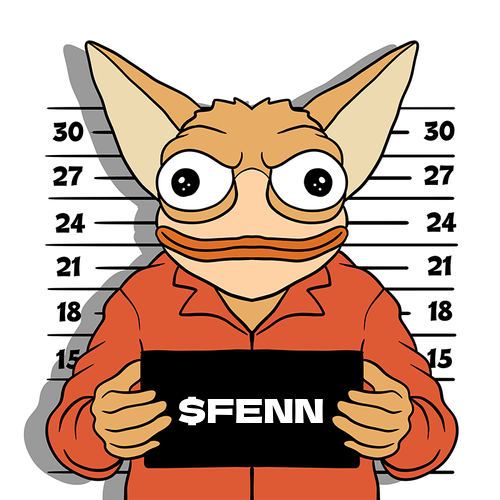
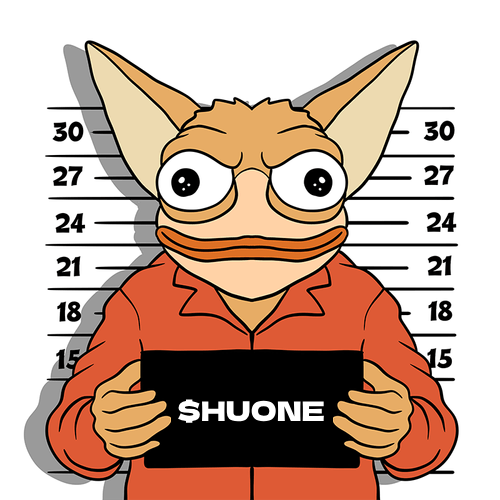
1

Changed region(s): [[0.36, 0.78, 0.66, 0.87]]

diff --git a/index.html b/index.html
@@ -2,9 +2,9 @@
 <html data-wf-page="6694e6c6ffe7ec007a5fe0f6" data-wf-site="6694e6c6ffe7ec007a5fe0e5">
 <head>
   <meta charset="utf-8">
-  <title>FENN CTO</title>
+  <title>DON CHIHUONE</title>
   <meta content="width=device-width, initial-scale=1" name="viewport">
-  <meta content="FENN CTO" name="$FENN">
+  <meta content="DON CHIHUONE" name="$HUONE">
   <link href="css/normalize.css" rel="stylesheet" type="text/css">
   <link href="css/fenn.css" rel="stylesheet" type="text/css">
   <link href="css/fennsol.css" rel="stylesheet" type="text/css">
@@ -20,7 +20,7 @@
   <source src="music.mp3" type="audio/mpeg">
 </audio>
   <div class="section_welcome">
-    <div data-w-id="d09afd53-cc98-39b9-e454-fb562317df2b" style="opacity:0" class="title">$FENN</div>
+    <div data-w-id="d09afd53-cc98-39b9-e454-fb562317df2b" style="opacity:0" class="title">$HUONE</div>
     <a data-w-id="685761e2-9dc5-6162-ecdc-14ebf643b7cd" style="opacity:0" href="#" class="continue w-button">CONTINUE</a>
   </div>
   <div class="w-embed">
@@ -32,21 +32,21 @@ html, body {
   </div>
   <div class="header">
     <div class="menu">
-      <a href="https://pump.fun/PqGJ6zMMSaezBVDJBWMSyXyourYvcvWE8EvNZRKpump" class="button_buy w-button">BUY $FENN</a>
+      <a href="https://pump.fun/nnaEXrLP9XzvvQTXyKjkn2gZAhgRavXHJLKNevepump" class="button_buy w-button">BUY $HUONE</a>
     </div>
     <div class="menu_right">
       <div class="menu_buttons">
         <a href="#story" class="menu_link w-button">STORY</a>
         <a href="#tokenomics" class="menu_link w-button">TOKENOMICS</a>
         <a href="#join" class="menu_link w-button">JOIN</a>
-        <a href="https://jup.ag/swap/SOL-PqGJ6zMMSaezBVDJBWMSyXyourYvcvWE8EvNZRKpump" class="menu_link w-button">JUPITER</a>
+        <a href="https://jup.ag/swap/SOL-nnaEXrLP9XzvvQTXyKjkn2gZAhgRavXHJLKNevepump" class="menu_link w-button">JUPITER</a>
       </div>
-      <a href="https://t.me/fenncoin" class="tg w-button"></a>
-      <a href="https://x.com/fenncoin" class="x w-button"></a>
+      <a href="https://t.me/huonecoin" class="tg w-button"></a>
+      <a href="https://x.com/huonecoin" class="x w-button"></a>
     </div>
   </div>
   <div class="wrapper">
-    <div class="section_hero"> <img src="./images/cloud_hero_blue.svg" loading="lazy" alt="" class="clouds_hero_blue"><img src="./images/clouds_hero_white.svg" loading="lazy" style="-webkit-transform:translate3d(-89vw, 0, 0) scale3d(1, 1, 1) rotateX(0) rotateY(0) rotateZ(0) skew(0, 0);-moz-transform:translate3d(-89vw, 0, 0) scale3d(1, 1, 1) rotateX(0) rotateY(0) rotateZ(0) skew(0, 0);-ms-transform:translate3d(-89vw, 0, 0) scale3d(1, 1, 1) rotateX(0) rotateY(0) rotateZ(0) skew(0, 0);transform:translate3d(-89vw, 0, 0) scale3d(1, 1, 1) rotateX(0) rotateY(0) rotateZ(0) skew(0, 0)" data-w-id="59f95f3e-db18-afbe-428f-cf73599fe10e" alt="" class="clouds_hero_white">   <div style="" class="logo-title">FENN CTO</div>                   <img src="./images/palm.svg" loading="lazy" style="-webkit-transform:translate3d(-33vw, 0, 0) scale3d(1, 1, 1) rotateX(0) rotateY(0) rotateZ(0) skew(0, 0);-moz-transform:translate3d(-33vw, 0, 0) scale3d(1, 1, 1) rotateX(0) rotateY(0) rotateZ(0) skew(0, 0);-ms-transform:translate3d(-33vw, 0, 0) scale3d(1, 1, 1) rotateX(0) rotateY(0) rotateZ(0) skew(0, 0);transform:translate3d(-33vw, 0, 0) scale3d(1, 1, 1) rotateX(0) rotateY(0) rotateZ(0) skew(0, 0)" data-w-id="b00e3dc6-1b1d-6a6d-198b-9bd509bbb92a" alt="" class="palm_hero">
+    <div class="section_hero"> <img src="./images/cloud_hero_blue.svg" loading="lazy" alt="" class="clouds_hero_blue"><img src="./images/clouds_hero_white.svg" loading="lazy" style="-webkit-transform:translate3d(-89vw, 0, 0) scale3d(1, 1, 1) rotateX(0) rotateY(0) rotateZ(0) skew(0, 0);-moz-transform:translate3d(-89vw, 0, 0) scale3d(1, 1, 1) rotateX(0) rotateY(0) rotateZ(0) skew(0, 0);-ms-transform:translate3d(-89vw, 0, 0) scale3d(1, 1, 1) rotateX(0) rotateY(0) rotateZ(0) skew(0, 0);transform:translate3d(-89vw, 0, 0) scale3d(1, 1, 1) rotateX(0) rotateY(0) rotateZ(0) skew(0, 0)" data-w-id="59f95f3e-db18-afbe-428f-cf73599fe10e" alt="" class="clouds_hero_white">   <div style="" class="logo-title">DON CHIHUONE</div>                   <img src="./images/palm.svg" loading="lazy" style="-webkit-transform:translate3d(-33vw, 0, 0) scale3d(1, 1, 1) rotateX(0) rotateY(0) rotateZ(0) skew(0, 0);-moz-transform:translate3d(-33vw, 0, 0) scale3d(1, 1, 1) rotateX(0) rotateY(0) rotateZ(0) skew(0, 0);-ms-transform:translate3d(-33vw, 0, 0) scale3d(1, 1, 1) rotateX(0) rotateY(0) rotateZ(0) skew(0, 0);transform:translate3d(-33vw, 0, 0) scale3d(1, 1, 1) rotateX(0) rotateY(0) rotateZ(0) skew(0, 0)" data-w-id="b00e3dc6-1b1d-6a6d-198b-9bd509bbb92a" alt="" class="palm_hero">
       <div data-w-id="4e548cfb-595a-bee4-878a-53ce60c61281" style="-webkit-transform:translate3d(-100vw, 0, 0) scale3d(1, 1, 1) rotateX(0) rotateY(0) rotateZ(0) skew(0, 0);-moz-transform:translate3d(-100vw, 0, 0) scale3d(1, 1, 1) rotateX(0) rotateY(0) rotateZ(0) skew(0, 0);-ms-transform:translate3d(-100vw, 0, 0) scale3d(1, 1, 1) rotateX(0) rotateY(0) rotateZ(0) skew(0, 0);transform:translate3d(-100vw, 0, 0) scale3d(1, 1, 1) rotateX(0) rotateY(0) rotateZ(0) skew(0, 0)" class="hero_ground">
         <div class="ground_hider"></div>
         <div class="h_ground">
@@ -88,11 +88,11 @@ html, body {
         <div data-w-id="93d8973c-4341-aee1-62be-d0794ab1f487" style="opacity:1" class="flash_right"></div>
       </div>
       <div class="h1">YOU GET<br>3 LIVES</div>
-      <div class="h2">FENN CTO TOKENOMICS EXPOSED!</div><img src="https://fenncoin.fun/images/jail_chara-p-500.png" loading="lazy" sizes="(max-width: 479px) 100vw, (max-width: 767px) 83vw, 500px" srcset="./images/jail_chara-p-500.png 500w, https://fenncoin.fun/images/jail_chara-p-500.png 800w" alt="" class="chara_jail">
+      <div class="h2">DON CHIHUONE TOKENOMICS EXPOSED!</div><img src="https://huonecoin.wtf/images/jail_chara-p-500.png" loading="lazy" sizes="(max-width: 479px) 100vw, (max-width: 767px) 83vw, 500px" srcset="./images/jail_chara-p-500.png 500w, https://huonecoin.wtf/images/jail_chara-p-500.png 800w" alt="" class="chara_jail">
       <div class="block_tokenomics">
         <div class="tokenomics_in">
           <div class="tokenomics_details">
-            <div class="tokenomics_title">TOTAL SUPPLY: 1 BILLION $FENN</div>
+            <div class="tokenomics_title">TOTAL SUPPLY: 1 BILLION $HUONE</div>
           </div>
           <div class="tokenomics_details">
             <div class="tokenomics_title">MINT REVOKED</div>
@@ -104,35 +104,35 @@ html, body {
             <div class="tokenomics_title">tax 0%</div>
           </div>
           <div class="tokenomics_details">
-            <div class="ca">PqGJ6zMMSaezBVDJBWMSyXyourYvcvWE8EvNZRKpump</div>
+            <div class="ca">nnaEXrLP9XzvvQTXyKjkn2gZAhgRavXHJLKNevepump</div>
           </div>
         </div>
       </div>
     </div>
     <div class="transition_05"></div>
-    <div class="scene_trader"><img src="https://fenncoin.fun/images/trader_chara-p-500.png" loading="lazy" data-w-id="60299c3c-3803-76a7-14ad-b3bd10fb2650" sizes="(max-width: 479px) 95vw, (max-width: 767px) 74vw, 441.2375183105469px" alt="" srcset="https://fenncoin.fun/images/trader_chara-p-500.png 500w, https://fenncoin.fun/images/trader_chara-p-500.png 796w" class="chara_trader">
+    <div class="scene_trader"><img src="https://huonecoin.wtf/images/trader_chara-p-500.png" loading="lazy" data-w-id="60299c3c-3803-76a7-14ad-b3bd10fb2650" sizes="(max-width: 479px) 95vw, (max-width: 767px) 74vw, 441.2375183105469px" alt="" srcset="https://huonecoin.wtf/images/trader_chara-p-500.png 500w, https://huonecoin.wtf/images/trader_chara-p-500.png 796w" class="chara_trader">
       <div class="h1">FROM lock <br>TO STOCK</div>
-      <div class="h2">FENN CTO&#x27;S TRADING COMEBACK</div><img src="https://fenncoin.fun/images/trader_screens-p-800.png" loading="lazy" sizes="(max-width: 479px) 95vw, (max-width: 767px) 86vw, 658.3250122070312px" srcset="https://fenncoin.fun/images/trader_screens-p-800.png 500w, https://fenncoin.fun/images/trader_screens-p-800.png 800w, https://fenncoin.fun/images/trader_screens-p-800.png 948w" alt="" class="image-2">
+      <div class="h2">DON CHIHUONE&#x27;S TRADING COMEBACK</div><img src="https://huonecoin.wtf/images/trader_screens-p-800.png" loading="lazy" sizes="(max-width: 479px) 95vw, (max-width: 767px) 86vw, 658.3250122070312px" srcset="https://huonecoin.wtf/images/trader_screens-p-800.png 500w, https://huonecoin.wtf/images/trader_screens-p-800.png 800w, https://huonecoin.wtf/images/trader_screens-p-800.png 948w" alt="" class="image-2">
       <div class="trader_desk"></div>
       <div class="trader_floor"></div>
     </div>
     <div class="transition_06"></div>
   </div>
-  <div id="join" class="scene_final"><img src="https://fenncoin.fun/images/chara_fly-p-500.png" loading="lazy" data-w-id="385c3d93-8ce6-f0aa-9207-7ce2380d5815" sizes="(max-width: 479px) 100vw, 400px" alt="" srcset="https://fenncoin.fun/images/chara_fly-p-500.png 500w, https://fenncoin.fun/images/chara_fly-p-500.png 600w" class="fly">
+  <div id="join" class="scene_final"><img src="https://huonecoin.wtf/images/chara_fly-p-500.png" loading="lazy" data-w-id="385c3d93-8ce6-f0aa-9207-7ce2380d5815" sizes="(max-width: 479px) 100vw, 400px" alt="" srcset="https://huonecoin.wtf/images/chara_fly-p-500.png 500w, https://huonecoin.wtf/images/chara_fly-p-500.png 600w" class="fly">
     <div class="coins_hider"></div>
     <div class="scene_rich">
       <div data-w-id="8ccefe30-c57a-9065-ecd9-a1f2992750d0" class="vegas_bg"></div>
       <div data-w-id="527c41bc-d6f5-007f-27cf-0eacd19559df" style="color:rgb(217,8,0)" class="h1 vegastitle">THE WORLD<br>IS YOURS</div>
-      <div class="h2 h2_vegas">FENN CTO&#x27;S DEGEN EMPIRE</div>
+      <div class="h2 h2_vegas">DON CHIHUONE&#x27;S DEGEN EMPIRE</div>
       <div class="rich_pic"><img src="./images/shine.gif" loading="lazy" alt="" class="shiny"></div><img src="./images/rich_smoking_chara.png" loading="lazy" sizes="(max-width: 479px) 185.8249969482422px, (max-width: 767px) 39vw, (max-width: 991px) 38vw, 371.6499938964844px" srcset="./images/rich_smoking_chara-p-500.png 500w, images/rich_smoking_chara.png 800w" alt="" class="rich_chara_smoke"><img src="./images/rich_chara.png" loading="lazy" sizes="(max-width: 479px) 100vw, (max-width: 767px) 69vw, (max-width: 991px) 58vw, 554.7750244140625px" srcset="./images/rich_chara-p-500.png 500w, images/rich_chara.png 800w" alt="" class="rich_chara_middle"><img src="./images/rich_chara_heart.png" loading="lazy" sizes="(max-width: 479px) 154.25px, (max-width: 767px) 32vw, (max-width: 991px) 31vw, 308.5px" srcset="./images/rich_chara_heart-p-500.png 500w, images/rich_chara_heart.png 617w" alt="" class="rich_chara_heart">
     </div>
     <div class="footer">
       <div class="footer_socials">
-        <a href="https://t.me/fenncoin" class="footer_button w-button">TELEGRAM</a>
-        <a href="https://pump.fun/PqGJ6zMMSaezBVDJBWMSyXyourYvcvWE8EvNZRKpump" class="footer_button w-button">PUMP.FUN</a>
-        <a href="https://x.com/fenncoin" class="footer_button w-button">x</a>
+        <a href="https://t.me/huonecoin" class="footer_button w-button">TELEGRAM</a>
+        <a href="https://pump.fun/nnaEXrLP9XzvvQTXyKjkn2gZAhgRavXHJLKNevepump" class="footer_button w-button">PUMP.FUN</a>
+        <a href="https://x.com/huonecoin" class="footer_button w-button">x</a>
       </div>
-      <div class="email">fennctosupport@gmail.com</div>
+      <div class="email">huonesupport@gmail.com</div>
     </div>
   </div>
   <script src="https://d3e54v103j8qbb.cloudfront.net/js/jquery-3.5.1.min.dc5e7f18c8.js?site=6694e6c6ffe7ec007a5fe0e5" type="text/javascript" integrity="sha256-9/aliU8dGd2tb6OSsuzixeV4y/faTqgFtohetphbbj0=" crossorigin="anonymous"></script>

diff --git a/css/fennsol.css b/css/fennsol.css
@@ -553,7 +553,7 @@
 }
 
 .rich_pic {
-  background-image: url('https://fenncoin.fun/images/fear_img.png');
+  background-image: url('https://huonecoin.wtf/images/fear_img.png');
   background-position: 50%;
   background-size: cover;
   border: 7px solid #000;
